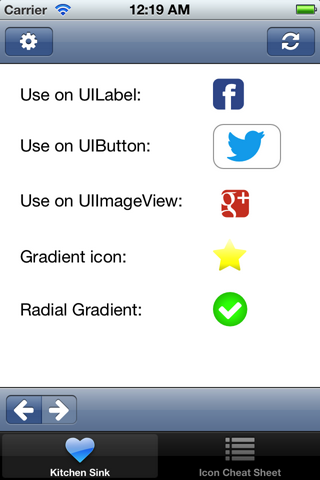
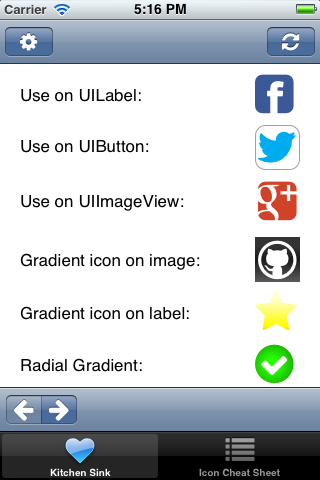
clean up

diff --git a/README.md b/README.md
@@ -5,30 +5,121 @@ Simple helper for using Font-Awesome on iOS.
 
 ![image](https://raw.github.com/PrideChung/FontAwesomeKit/master/screenshot.png)
 
-###What is Font-Awesome
+##What is Font-Awesome
 [Font-Awesome](http://fortawesome.github.com/Font-Awesome/) is a set of iconic fonts used in Twitter Bootstrap.
 
-###Installation
+##Installation
 
-**via CocoaPods** (recommended)
+###via CocoaPods (recommended)
 
 Add this line in your Podfile, then run `pod update`
 
 `pod FontAwesomeKit`
 
-**Manully**
+###Manully
 
 Download source code, then drag the folder `FontAwesomeKit` into your project, add CoreText framework to you project.
 
-###Example Usage
+##Example Usage
+
+
+
+###Using Font-Awesome on UIBarButtonItem
+
 ```objective-c
-// using Font-Awesome on UIBarButtonItem
 self.configBarButton.title = FAKIconCog;
 [self.configBarButton setTitleTextAttributes:@{UITextAttributeFont:[FontAwesomeKit fontWithSize:24]} forState:UIControlStateNormal];
-
-// get an UIImage of an icon so you can use it on tabbar
-
 ```
 
-It's quit simple, please check the example.
+###Get an UIImage of an icon so you can use it on tabbar
 
+```objective-c
+UIImage *tabBarIcon = [FontAwesomeKit imageForIcon:FAKIconHeart
+										 imageSize:FAKImageSizeTabbar
+										  fontSize:29
+										attributes:nil];
+self.tabBarItem.image = tabBarIcon;
+self.tabBarItem.title = @"Title you like";
+```
+
+###Get a linear gradient pattern image
+
+```objective-c
+// Notice that we use CGColor here like using CAGradientLayer
+NSArray *colors = @[(id)[UIColor colorWithHue:59.0/360 saturation:0.2 brightness:1.0 alpha:1.0].CGColor,
+				 (id)[UIColor colorWithHue:59.0/360 saturation:1.0 brightness:1.0 alpha:1.0].CGColor,
+				 (id)[UIColor colorWithHue:59.0/360 saturation:0.8 brightness:0.8 alpha:1.0].CGColor];
+// Gradient stops, from 0.0 to 1.0, values must be monotonically increasing
+NSArray *locations = @[@0.2, @0.8, @1.0]; 
+UIImage *gradientPattern = [FontAwesomeKit linearGradientImageWithSize:CGSizeMake(37, 37)
+																colors:colors
+															 locations:locations]; 
+```
+####Related methods
+```objective-c
++ (UIImage *)linearGradientImageWithSize:(CGSize)size
+								  colors:(NSArray *)colors
+							   locations:(NSArray *)locations
+							  startPoint:(CGPoint)startPoint
+								endPoint:(CGPoint)endPoint;
+```
+Gives you control about where to start and stop the gradient.
+
+
+```objective-c
++ (UIImage *)linearGradientImageWithSize:(CGSize)size
+								  colors:(NSArray *)colors;
+```
+Omit the locations parameter, the first color in colors is assigned to location 0, the last color in colors is assigned to location 1, and intervening colors are assigned locations that are at equal intervals in between.
+
+###Get a radial gradient pattern image
+```objective-c
+NSArray *colors = @[(id)[UIColor colorWithHue:111.0/360 saturation:1.0 brightness:1.0 alpha:1.0].CGColor,
+		        (id)[UIColor colorWithHue:111.0/360 saturation:1.0 brightness:0.7 alpha:1.0].CGColor,
+		];
+CGPoint centerPoint = CGPointMake(45.0/2 - 5, 45.0/2);
+gradientPattern = [FontAwesomeKit radialGradientImageWithSize:CGSizeMake(45, 45)
+													   colors:colors // Gradient colors
+													locations:locations // Gradient stops
+												  startCenter:centerPoint // The coordinate that defines the center of the starting circle.												  startRadius:1.0 // The radius of the starting circle.
+													endCenter:centerPoint // The coordinate that defines the center of the ending circle.
+													endRadius:27]; // The radius of the ending circle.
+```
+
+###Use gradient pattern image as Forgeground color on icon
+
+```objective-c
+	NSArray *githubColors = @[(id)[UIColor colorWithWhite:0.2 alpha:1.0].CGColor,
+						   (id)[UIColor colorWithWhite:0.1 alpha:1.0].CGColor,
+						   (id)[UIColor colorWithWhite:0.35 alpha:1.0].CGColor];
+	NSArray *githubLocations = @[@0.2, @0.5, @1.0];
+	UIImage *githubGradientPattern = [FontAwesomeKit linearGradientImageWithSize:CGSizeMake(45, 45)
+																		  colors:githubColors
+																	   locations:githubLocations];
+	NSDictionary *githubAttr =@{FAKImageAttributeForegroundColor:[UIColor whiteColor],
+							 FAKImageAttributeBackgroundColor:[UIColor colorWithPatternImage:githubGradientPattern]};
+	self.gradientImageView.image = [FontAwesomeKit imageForIcon:FAKIconGithub
+													  imageSize:CGSizeMake(45, 45)
+													   fontSize:45
+													 attributes:githubAttr];
+```
+
+**Available attributes:** (Both are optional, use default value if you don't specify)
+
+######FAKImageAttributeRect
+The value of this attribute is a NSValue object containing a CGRect structure. You can wrap a CGRect structure into NSValue object like this:
+`NSValue *rectValue = [NSValue valueWithCGRect:aCGRect];`  
+*Default: Center the icon in both directions.*
+  
+######FAKImageAttributeForegroundColor
+The value of this attribute is an UIColor object. Use this attribute to specify the color of the icon.
+*Default: Black color.*
+
+######FAKImageAttributeBackgroundColor
+The value of this attribute is an UIColor object. Use this attribute to specify the color of the background area behind the icon.  
+*Default: Transparent color.*
+
+
+######FAKImageAttributeFont
+The value of this attribute is an UIFont object. Use this attribute to specify the icon font you want to use. You can pass the value to use another icon font.  
+*Default: Use FontAwesome*
